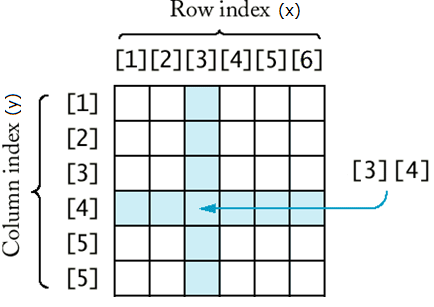
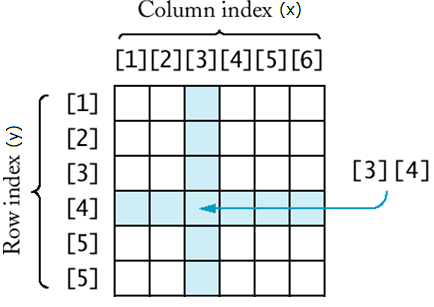
Maphandling update
text and figures

Changed region(s): [[0.0, 0.4104, 0.0599, 0.8502], [0.2995, 0.0, 0.7189, 0.0586], [0.0, 0.2932, 0.0599, 0.3811]]

diff --git a/Report/sections/maphandling.tex b/Report/sections/maphandling.tex
@@ -1,5 +1,12 @@
 % Introduction
 
+% ??? NEED block diagram of go()! check map? scan: yes/no? save map, move etc. (use that online code to block diagram tool)
+% ??? Descripe framework in a section (see gdocs for input to block diagram) (or present at exam)
+% ??? Mention we chose to focus on making our own code with the least use of finished libraries as possible, no error handling 
+% ??? Mention the report will explain important aspects of out work and theoretical parts, 
+%     while the finished product is a prototype and the code in the appendix
+% 
+% https://en.wikipedia.org/wiki/Rescue_robot
 % Problem:
 % - Problem and analysis:
 % - System diagram (what we want to build):
@@ -27,8 +34,8 @@
 
 \chapter{Map Handling}
 \label{ch:map} % chapter label
-The rescue robot should be able follow a given path from start to finish, based on a predefined map.
-A map provides useful information about whether areas of the map are accessible or not. This is an important element in path-finding.
+The rescue robot should be able follow a given path from start to finish, based on a predefined map given as input.
+A map provides useful information about whether areas of the map are accessible or not, which is important for path-finding.
 Map data can be given to the robot prior to its physical presence at a location. Once the robot is at the starting point, it has to rely on its sensors for updated information about the surroundings.
 
 A structured way of storing the required map data for different maps was designed. 
@@ -40,7 +47,7 @@ but also allow easy user input.
 %The pathfinding algorihtm implemented in this project is further described in chapter \ref{ch:path}.
 
 \newpage
-\section{Map requirements}
+\section{Map Requirements}
 \label{ch:map_requirements}
 Maps can be found in a lot of different styles,
 varying in how they represent specific informations.
@@ -94,39 +101,43 @@ as well as some areas that have been delimited from.
 \end{table}
 
 
-\section{Map coordinates}
+\section{Map Coordinates}
 \label{sec:map_coordinates} % section label
-During the theoretical development we often used hand-drawn 2D (two-dimensional) grid maps as depicted in Figure \ref{sub:2d_map}. It allows for any object to have a location on the grid, and can easily be referred to by its unique coordinate in the x and y dimensions. 
 
-To convert an analog map into a digital representation, a 2D array was used as data structure for storing map information. A 2D array can be thought of as a matrix, where a grid of numbers can be arranged in rows and columns. 2D arrays and matrices are very similar, but differ in how elements are indexed. As seen in Figure \ref{sub:2d_array}, indexing for a 2D array starts with zero, and x- and y-axes for rows and columns (typically named i and j) are switched.  
+During the theoretical development 2D (two-dimensional) grid maps as depicted in Figure \ref{sub:2d_map}. It allows for any object to have a location on the grid, and can easily be referred to by its unique coordinate in the x and y dimensions. 
 
+For converting such analog maps into a usable digital representation, we chose to use 2D arrays as data structure for storing maps. A 2D array can be thought of as a matrix, where a grid of numbers can be arranged in rows and columns. 2D arrays and matrices are very similar, but differ in how elements are indexed. As seen in Figure \ref{sub:2d_array}, indexing for a 2D array starts with zero, and x- and y-axes for rows and columns (typically named i and j) are switched.  
+
+The differences in the indexing of the two discussed methods can be seen by comparing Figure \ref{sub:2d_map} to \ref{sub:2d_array}.
 \begin{figure}[htp]
     \centering
     \subfloat[2D grid map]{%
-        \includegraphics[width=0.4\textwidth]{figures/map/2d-map.png}%
+        \includegraphics[width=0.45\textwidth]{figures/map/2d-map.png}%
         \label{sub:2d_map}
         }%  
-    \hspace{0.1\textwidth}  
+    \hspace{0.05\textwidth}  
     \subfloat[2D array]{%
-        \includegraphics[width=0.4\textwidth]{figures/map/2d-array.png}%
+        \includegraphics[width=0.45\textwidth]{figures/map/2d-array.png}%
         \label{sub:2d_array}
         }%
     \caption{Difference in indexing for a 2D grid map and a 2D array}
     \label{fig:floor_plans}
 \end{figure}
-
 %https://i.stack.imgur.com/tFdLk.gif
-The differences in the indexing of the two discussed methods can be seen by comparing Figure \ref{sub:2d_map} to \ref{sub:2d_array}.
 
 Since 2D arrays have rows first and columns second for indexing, we decided to switch the x- and y-axes in the programming part. This way the map sections stored in the 2D array can be accessed by an index style similar to the 2D grid map.
 \\
-map[i][j], where i = map column(n) and j = map row (n) 
-\todo{make some fancy code magic here}
 \\
+\subsection*{Code}\label{app:code}
 
+\begin{lstlisting}
+Put your code here.
+\end{lstlisting}
 
+Array: map[i][j], where i = map x coordinate and j = map y coordinate 
+\todo{make some fancy code magic here}
 
-\section{Map design}
+\section{Map Design}
 \label{sec:map_design} % section label
 Subsections?\\
 - wall hex
@@ -138,17 +149,17 @@ Explain how to store wall as hex value?\\
 \begin{figure}[htp]
     \centering
     \subfloat[ASCII]{%
-        \includegraphics[width=0.2\textwidth]{figures/map/5x5map_ascii.png}%
+        \includegraphics[width=0.2\textwidth]{figures/map/5x5map_ascii-2.png}%
     }
     \hspace{0.2\textwidth}
     \subfloat[UTF8]{%
-        \includegraphics[width=0.2\textwidth]{figures/map/5x5map_utf8.png}%
+        \includegraphics[width=0.2\textwidth]{figures/map/5x5map_utf8-2.png}%
     }
     \caption{5x5 map}
     \label{fig:5x5map}
 \end{figure}
 
-\section{Check map}
+\section{Check Map}
 \label{sec:map_check} % section label
 Remember we have a chapter dedicated to scan.\linebreak
 Based on scenario things might have dramatically changed, even to the point of map being useless. Explain how map is updated.
